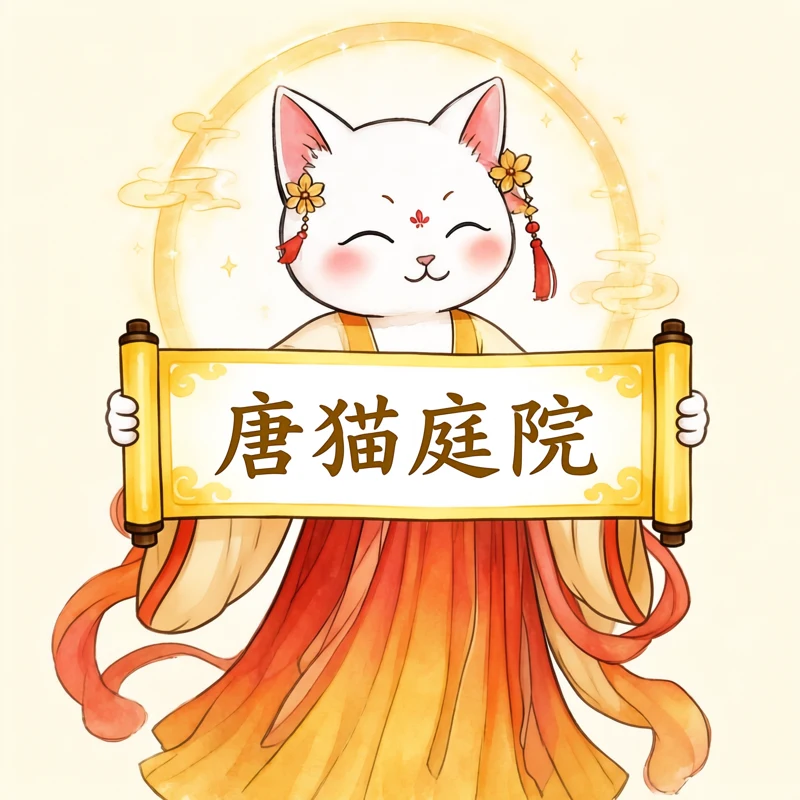
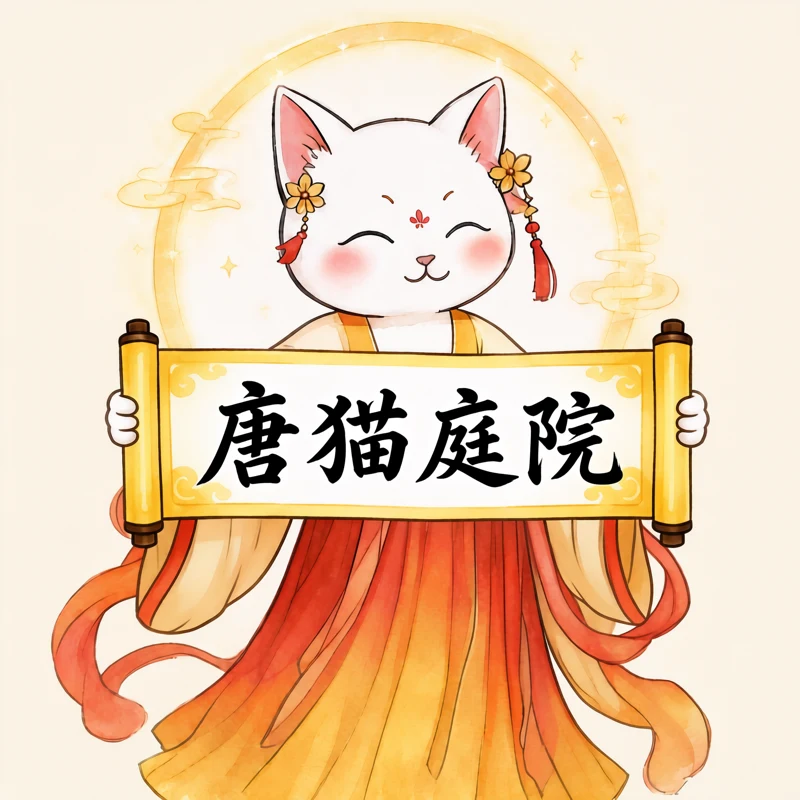
品牌: 迎宾猫卷面改浓墨毛笔书法「唐猫庭院」——笔锋顿挫贴合纸面(替换浮贴金字),两轮编辑迭代(先定毛笔风格再改回店名),版本参数bump 20261015c

diff --git a/index.html b/index.html
@@ -170,7 +170,7 @@
                                 <h2 class="mb-0">登录</h2>
                             </div>
                             <div class="card-body p-5">
-                                <img src="assets/illustrations/cat-butler-ai.webp?v=20261015b" alt="唐猫庭院迎宾猫" style="width:100%;border-radius:12px;margin-bottom:18px;display:block;">
+                                <img src="assets/illustrations/cat-butler-ai.webp?v=20261015c" alt="唐猫庭院迎宾猫" style="width:100%;border-radius:12px;margin-bottom:18px;display:block;">
                                 <form id="login-form" novalidate>
                                     <div class="mb-3">
                                         <label for="login-username" class="form-label">用户名</label>
@@ -203,7 +203,7 @@
                                 <h2 class="mb-0">注册</h2>
                             </div>
                             <div class="card-body p-5">
-                                <img src="assets/illustrations/cat-butler-ai.webp?v=20261015b" alt="唐猫庭院迎宾猫" style="width:100%;border-radius:12px;margin-bottom:18px;display:block;">
+                                <img src="assets/illustrations/cat-butler-ai.webp?v=20261015c" alt="唐猫庭院迎宾猫" style="width:100%;border-radius:12px;margin-bottom:18px;display:block;">
                                 <form id="register-form" novalidate>
                                     <div class="mb-3">
                                         <label for="register-username" class="form-label">用户名 <span style="color:var(--text-light);font-size:0.75rem;">（2-20字符）</span></label>
@@ -401,7 +401,7 @@
             <section id="table-builder-section" class="section">
                 <div class="card shadow-lg rounded-4 border-0" style="border:1px solid rgba(201,169,110,0.3)!important;">
                     <div class="card-header text-center text-white" style="background:linear-gradient(135deg,var(--primary-dark),var(--primary))!important;border:none;position:relative;">
-                        <img src="/assets/illustrations/cat-butler-ai.webp?v=20261015b" alt="猫掌柜" style="position:absolute;right:12px;top:8px;height:72px;width:auto;border-radius:50%;border:2px solid rgba(255,255,255,0.55);box-shadow:0 2px 8px rgba(0,0,0,0.25);">
+                        <img src="/assets/illustrations/cat-butler-ai.webp?v=20261015c" alt="猫掌柜" style="position:absolute;right:12px;top:8px;height:72px;width:auto;border-radius:50%;border:2px solid rgba(255,255,255,0.55);box-shadow:0 2px 8px rgba(0,0,0,0.25);">
                         <div style="font-size:0.66rem;letter-spacing:7px;color:var(--gold-light);opacity:0.9;margin-bottom:5px;">◇ 猫 掌 柜 AI ◇</div>
                         <h2 class="mb-0" style="font-family:'Noto Serif SC',serif;font-weight:700;letter-spacing:8px;text-indent:8px;">猫掌柜 · 一席成宴</h2>
                         <div style="font-size:0.76rem;color:rgba(240,213,176,0.85);margin-top:5px;letter-spacing:3px;">掌柜懂菜，更懂你 · 报上人数即成宴</div>
@@ -636,7 +636,7 @@
                     <div class="card-header text-white d-flex justify-content-between align-items-center" style="background-color:var(--primary-accent);">
                         <h2 class="mb-0" data-i18n="rec_title">推荐菜品</h2>
                         <div class="d-flex align-items-center">
-                            <img src="/assets/illustrations/cat-butler-ai.webp?v=20261015b" alt="猫掌柜" style="height:64px;width:64px;border-radius:50%;border:2px solid rgba(255,255,255,0.55);box-shadow:0 2px 8px rgba(0,0,0,0.25);margin-right:14px;">
+                            <img src="/assets/illustrations/cat-butler-ai.webp?v=20261015c" alt="猫掌柜" style="height:64px;width:64px;border-radius:50%;border:2px solid rgba(255,255,255,0.55);box-shadow:0 2px 8px rgba(0,0,0,0.25);margin-right:14px;">
                             <button class="btn btn-light btn-sm" id="back-to-preference">
                                 <i class="bi bi-arrow-left me-2"></i>换口味
                             </button>
